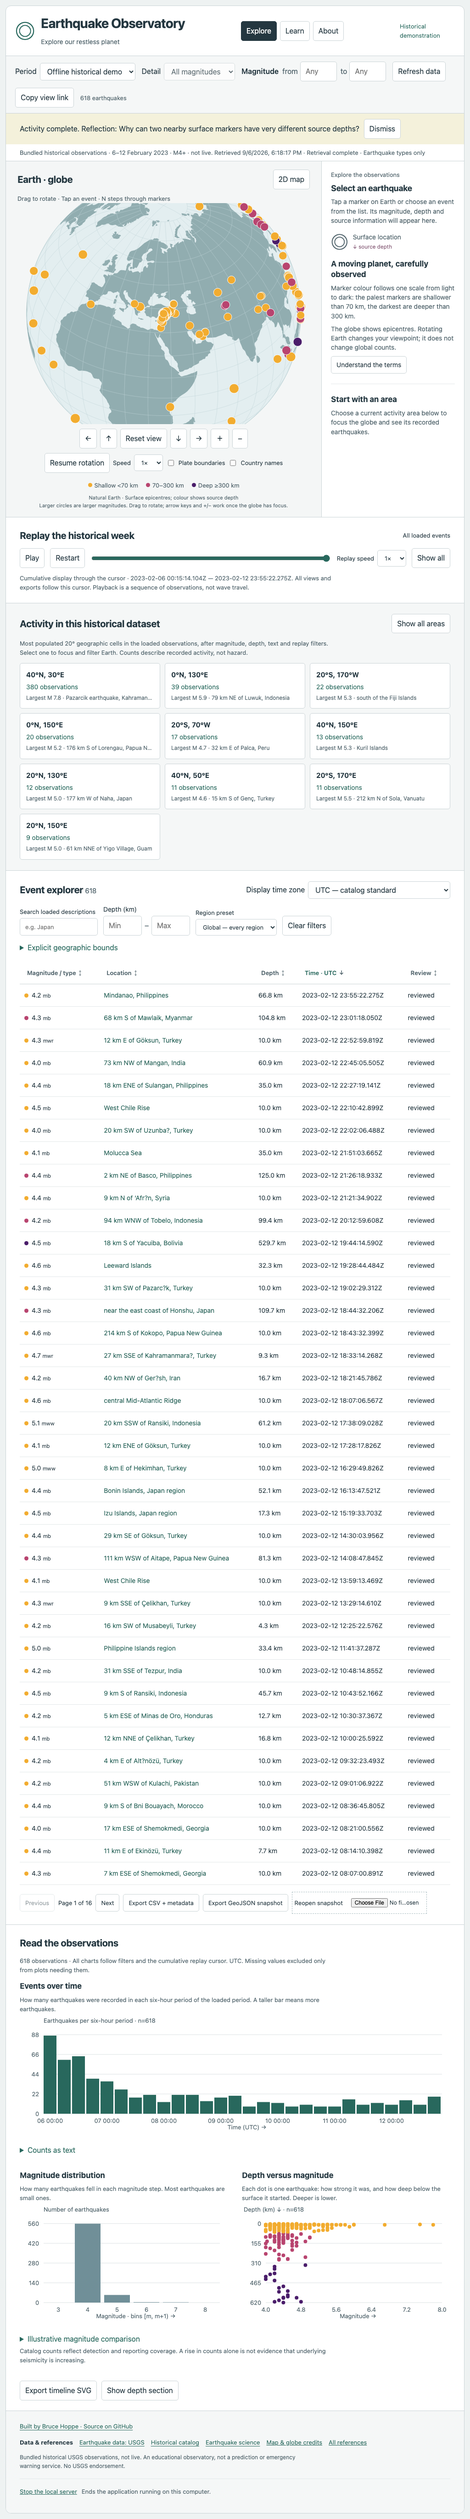
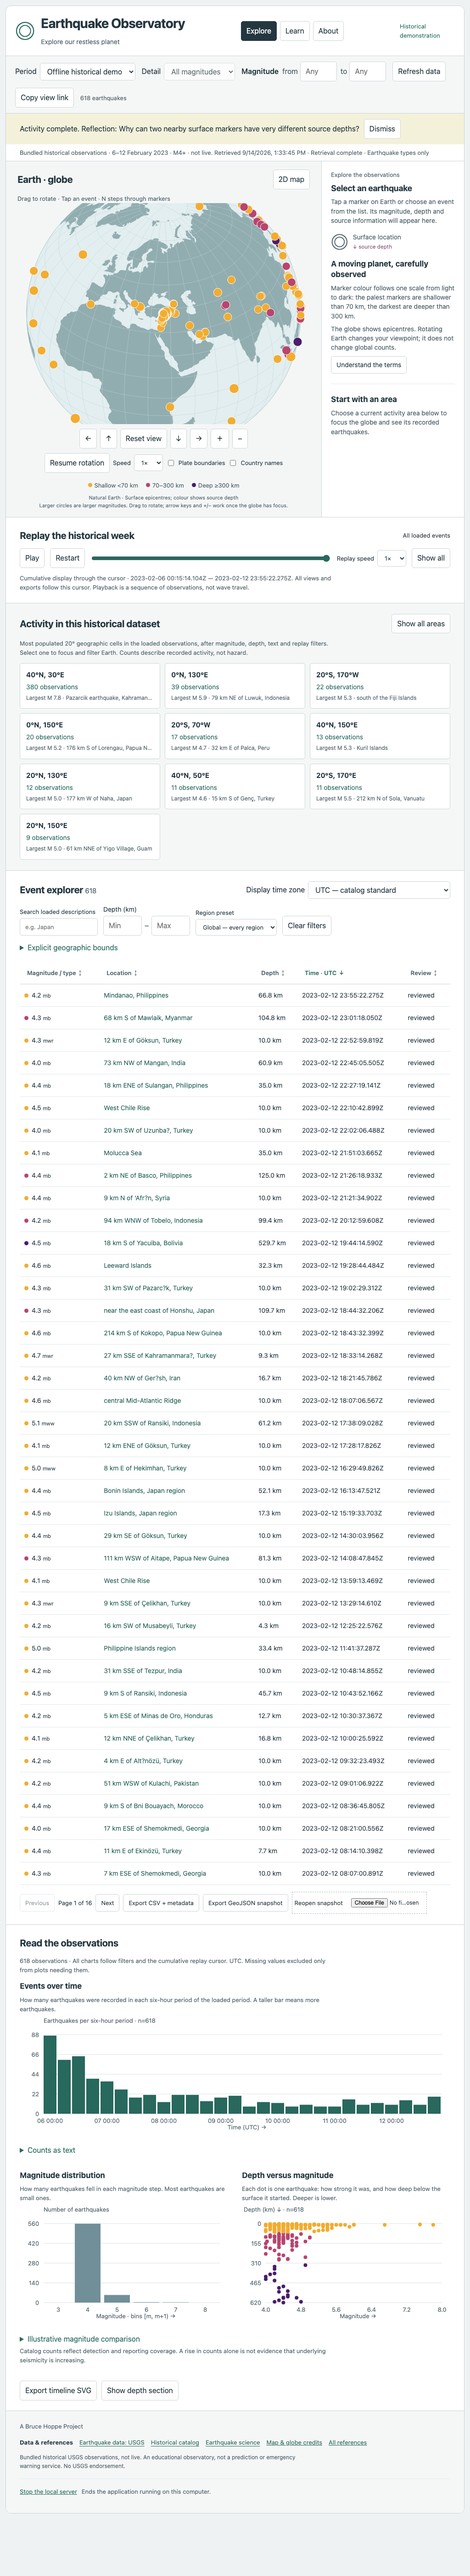
Restore visible author credit as "A Bruce Hoppe Project"
The footer and About panel dropped all on-screen attribution in favour
of a source-only comment. Bring back a plain, understated credit line
in both places and in README, without relinking the repository. The
browser check now asserts the credit is visible again instead of
asserting its absence; refreshed screenshots and accessibility results
reflect the rebuilt UI.

Claude-Session: https://claude.ai/code/session_014GUWch9m9Tzafqux4xmHgU

diff --git a/web/src/main.tsx b/web/src/main.tsx
@@ -1138,7 +1138,7 @@ function App() {
           />
         )}
         <footer>
-          {/* © 2026 Bruce Hoppe — attribution retained in source, not shown. */}
+          <span class="credit">A Bruce Hoppe Project</span>
           <div>
             <strong>Data & references</strong>
             <a href={sources[0].url} target="_blank" rel="noreferrer">
@@ -1244,10 +1244,9 @@ function App() {
                     fonts. Live retrieval contacts USGS through this local Go
                     server. Clicking source links opens the source website.
                   </p>
-                  {/* © 2026 Bruce Hoppe. */}
                   <p>
-                    An independent educational project, not affiliated with or
-                    endorsed by the USGS.
+                    A Bruce Hoppe Project. An independent educational project,
+                    not affiliated with or endorsed by the USGS.
                   </p>
                   {[
                     "Earthquake observations",

diff --git a/web/src/style.css b/web/src/style.css
@@ -848,6 +848,10 @@ footer {
   font-size: 13px;
   background: var(--surface-sunken);
 }
+footer .credit {
+  display: block;
+  color: var(--ink-muted);
+}
 footer > div {
   display: flex;
   align-items: center;

diff --git a/CHANGELOG.md b/CHANGELOG.md
@@ -2,7 +2,7 @@
 
 ## 0.2.1 (local release candidate)
 
-- Removed the on-screen author credit and the repository link from the footer and About panel. The copyright is retained as a source comment and in LICENSE, which ships in every archive; the About panel keeps the statement that the project is independent of the USGS.
+- Restored the on-screen author credit — "A Bruce Hoppe Project" — to the footer and About panel, and to README, without a repository link. The copyright remains recorded as a source comment and in LICENSE, which ships in every archive; the About panel keeps the statement that the project is independent of the USGS.
 
 ## 0.2.0 (local release candidate)
 

diff --git a/README.md b/README.md
@@ -88,3 +88,5 @@ Read [QUICKSTART](QUICKSTART.md), [operations](docs/operations.md), [scientific 
 
 Licensed under the [MIT License](LICENSE). Third-party licenses are recorded in [THIRD_PARTY_NOTICES.md](THIRD_PARTY_NOTICES.md). This is an educational observatory, not an earthquake prediction or emergency warning service.
 
+A Bruce Hoppe project.
+
